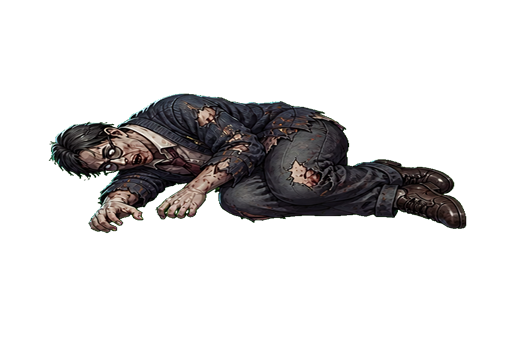
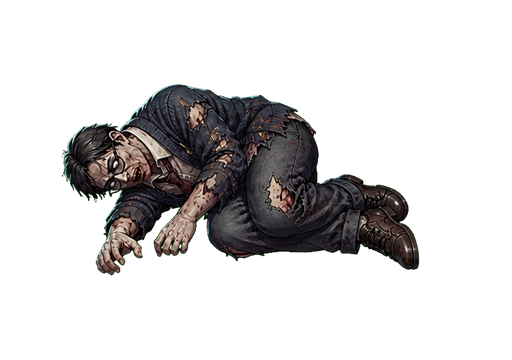
좀비 관련 이미지 파일 추가 및 게임 로직 개선: 다양한 좀비 유형의 이미지와 애니메이션 추가

Changed region(s): [[0.0938, 0.2139, 0.9375, 0.7639]]

diff --git a/school-zombie-defense/js/game.js b/school-zombie-defense/js/game.js
@@ -28,7 +28,13 @@
       return false;
     }
   })();
-  const imageAsset = (path) => SUPPORTS_WEBP ? path.replace(/\.png$/i, ".webp") : path;
+  const PNG_ONLY_ZOMBIE_ASSETS = /assets\/images\/zombie-(?:walk-(?:teacher|nurse|athlete|janitor|guard|crawler|screamer|spider|bloom)|death-(?:teacher|nurse|athlete|janitor|guard|crawler|screamer|spider|bloom)-sheet|corpse-(?:teacher|nurse|athlete|janitor|guard|crawler|screamer|spider|bloom)-[1-3])\.png$/i;
+  const imageAsset = (path) => {
+    const normalizedPath = path.replace(/\\/g, "/");
+    return SUPPORTS_WEBP && !PNG_ONLY_ZOMBIE_ASSETS.test(normalizedPath)
+      ? path.replace(/\.png$/i, ".webp")
+      : path;
+  };
   const choose = (items) => items[Math.floor(Math.random() * items.length)];
   const shuffleItems = (items) => {
     const copy = [...items];
@@ -106,7 +112,23 @@
   ];
   const ZOMBIE_DEATH_ANIMATION_FRAMES = 4;
   const ZOMBIE_DEATH_ANIMATION_FRAME_SIZE = 512;
-  const ZOMBIE_CORPSE_TYPES = ["normal", "student", "runner", "brute", "volatile", "elite"];
+  const ZOMBIE_CORPSE_TYPES = [
+    "normal",
+    "student",
+    "runner",
+    "brute",
+    "volatile",
+    "elite",
+    "teacher",
+    "nurse",
+    "athlete",
+    "janitor",
+    "guard",
+    "crawler",
+    "screamer",
+    "spider",
+    "bloom"
+  ];
   const ZOMBIE_CORPSE_TEXTURES = Object.fromEntries(
     ZOMBIE_CORPSE_TYPES.map((type) => [
       type,
@@ -127,7 +149,16 @@
     runner: { corpseWidth: 0.84, deathSize: 0.96 },
     brute: { corpseWidth: 1.06, deathSize: 1.22 },
     volatile: { corpseWidth: 0.94, deathSize: 0.89 },
-    elite: { corpseWidth: 0.96, deathSize: 1.05 }
+    elite: { corpseWidth: 0.96, deathSize: 1.05 },
+    teacher: { corpseWidth: 0.84, deathSize: 0.96 },
+    nurse: { corpseWidth: 0.78, deathSize: 0.88 },
+    athlete: { corpseWidth: 0.82, deathSize: 0.94 },
+    janitor: { corpseWidth: 1.02, deathSize: 1.12 },
+    guard: { corpseWidth: 1.02, deathSize: 1.1 },
+    crawler: { corpseWidth: 1.18, deathSize: 0.96 },
+    screamer: { corpseWidth: 0.86, deathSize: 0.98 },
+    spider: { corpseWidth: 1.16, deathSize: 0.94 },
+    bloom: { corpseWidth: 0.94, deathSize: 1.04 }
   };
   const ZOMBIE_FOOT_OFFSET_RATIOS = {
     normal: 0.386,
@@ -135,7 +166,16 @@
     runner: 0.392,
     brute: 0.414,
     volatile: 0.392,
-    elite: 0.402
+    elite: 0.402,
+    teacher: 0.394,
+    nurse: 0.39,
+    athlete: 0.384,
+    janitor: 0.41,
+    guard: 0.408,
+    crawler: 0.235,
+    screamer: 0.392,
+    spider: 0.225,
+    bloom: 0.392
   };
   const ZOMBIE_HP_MULTIPLIER = 3;
   const ZOMBIE_SPAWN_INTERVAL_MULTIPLIER = 2.4;
@@ -300,12 +340,12 @@
     "projectile-sniper": 170
   };
   const RIFLE_GRENADE_FLIGHT_TIME_SCALE = 4.6;
-  const RIFLE_GRENADE_INTERVAL_SCALE = 3;
-  const RIFLE_GRENADE_INITIAL_INTERVAL = 8 * RIFLE_GRENADE_INTERVAL_SCALE;
-  const RIFLE_GRENADE_MIN_INTERVAL = 4 * RIFLE_GRENADE_INTERVAL_SCALE;
+  const RIFLE_GRENADE_INTERVAL_SCALE = 1;
+  const RIFLE_GRENADE_INITIAL_INTERVAL = 10 * RIFLE_GRENADE_INTERVAL_SCALE;
+  const RIFLE_GRENADE_MIN_INTERVAL = 2 * RIFLE_GRENADE_INTERVAL_SCALE;
   const getRifleGrenadeEveryForLevel = (level) => {
     const progress = clamp((Math.max(1, level) - 1) / (SHOP_MAX_LEVEL - 1), 0, 1);
-    return Math.round(10 - progress * 6) * RIFLE_GRENADE_INTERVAL_SCALE;
+    return Math.round(10 - progress * 8) * RIFLE_GRENADE_INTERVAL_SCALE;
   };
   const getNextRifleGrenadeEvery = (current) => current === 0
     ? RIFLE_GRENADE_INITIAL_INTERVAL
@@ -319,9 +359,34 @@
     runner: { id: "runner", hpScale: 0.72, speedScale: 1.72, sizeScale: 0.82, attackScale: 0.76, hitRadiusScale: 0.86, knockbackScale: 1.18, animRate: 9.4, reward: 1 },
     brute: { id: "brute", hpScale: 3.7, speedScale: 0.72, sizeScale: 1.24, attackScale: 1.45, hitRadiusScale: 1.22, knockbackScale: 0.42, animRate: 4.9, reward: 2 },
     volatile: { id: "volatile", hpScale: 1.05, speedScale: 1.08, sizeScale: 1.02, attackScale: 1.06, hitRadiusScale: 1, knockbackScale: 0.72, animRate: 7.4, reward: 2, deathExplosion: true },
+    teacher: { id: "teacher", hpScale: 1.28, speedScale: 0.92, sizeScale: 1.03, attackScale: 1.18, hitRadiusScale: 1.04, knockbackScale: 0.82, animRate: 6.2, reward: 2 },
+    nurse: { id: "nurse", hpScale: 0.82, speedScale: 1.32, sizeScale: 0.9, attackScale: 0.88, hitRadiusScale: 0.88, knockbackScale: 1.08, animRate: 8.2, reward: 1 },
+    athlete: { id: "athlete", hpScale: 0.68, speedScale: 1.88, sizeScale: 0.86, attackScale: 0.82, hitRadiusScale: 0.9, knockbackScale: 1.2, animRate: 10.2, reward: 1 },
+    janitor: { id: "janitor", hpScale: 2.25, speedScale: 0.8, sizeScale: 1.14, attackScale: 1.26, hitRadiusScale: 1.14, knockbackScale: 0.55, animRate: 5.4, reward: 2 },
+    guard: { id: "guard", hpScale: 2.85, speedScale: 0.68, sizeScale: 1.12, attackScale: 1.18, hitRadiusScale: 1.12, knockbackScale: 0.48, animRate: 4.8, reward: 3 },
+    crawler: { id: "crawler", hpScale: 0.9, speedScale: 1.38, sizeScale: 0.74, attackScale: 0.72, hitRadiusScale: 0.74, knockbackScale: 0.95, animRate: 8.8, reward: 1 },
+    screamer: { id: "screamer", hpScale: 0.92, speedScale: 1.42, sizeScale: 0.95, attackScale: 0.98, hitRadiusScale: 0.92, knockbackScale: 1.04, animRate: 8.6, reward: 2 },
+    spider: { id: "spider", hpScale: 0.78, speedScale: 1.64, sizeScale: 0.72, attackScale: 0.78, hitRadiusScale: 0.76, knockbackScale: 1.08, animRate: 9.8, reward: 1 },
+    bloom: { id: "bloom", hpScale: 1.48, speedScale: 0.88, sizeScale: 1.02, attackScale: 1.12, hitRadiusScale: 1, knockbackScale: 0.7, animRate: 6.1, reward: 2, deathExplosion: true },
     elite: { id: "elite", hpScale: 1, speedScale: 1, sizeScale: 1, attackScale: 1, hitRadiusScale: 1, knockbackScale: 0.5, animRate: 5.2, reward: 4 }
   };
-  const ZOMBIE_TEXTURE_TYPES = ["normal", "student", "runner", "brute", "volatile", "elite"];
+  const ZOMBIE_TEXTURE_TYPES = [
+    "normal",
+    "student",
+    "runner",
+    "brute",
+    "volatile",
+    "elite",
+    "teacher",
+    "nurse",
+    "athlete",
+    "janitor",
+    "guard",
+    "crawler",
+    "screamer",
+    "spider",
+    "bloom"
+  ];
 
   function createDefaultMetaSave() {
     const save = {
@@ -391,9 +456,28 @@
     }
     if (level >= 4) {
       entries.push({ type: ZOMBIE_TYPE_CONFIGS.brute, weight: Math.min(22, 8 + (level - 4) * 1.2) });
+      entries.push({ type: ZOMBIE_TYPE_CONFIGS.screamer, weight: Math.min(18, 7 + (level - 4) * 0.9) });
+    }
+    if (level >= 3) {
+      entries.push({ type: ZOMBIE_TYPE_CONFIGS.nurse, weight: Math.min(20, 8 + level * 0.9) });
+      entries.push({ type: ZOMBIE_TYPE_CONFIGS.athlete, weight: Math.min(24, 9 + level) });
+    }
+    if (level >= 5) {
+      entries.push({ type: ZOMBIE_TYPE_CONFIGS.teacher, weight: Math.min(20, 7 + (level - 5) * 1) });
+      entries.push({ type: ZOMBIE_TYPE_CONFIGS.janitor, weight: Math.min(18, 6 + (level - 5) * 0.9) });
     }
     if (level >= 6) {
       entries.push({ type: ZOMBIE_TYPE_CONFIGS.volatile, weight: Math.min(18, 6 + (level - 6) * 1.1) });
+      entries.push({ type: ZOMBIE_TYPE_CONFIGS.spider, weight: Math.min(16, 6 + (level - 6) * 0.8) });
+    }
+    if (level >= 7) {
+      entries.push({ type: ZOMBIE_TYPE_CONFIGS.crawler, weight: Math.min(22, 8 + (level - 7) * 1) });
+    }
+    if (level >= 8) {
+      entries.push({ type: ZOMBIE_TYPE_CONFIGS.guard, weight: Math.min(14, 5 + (level - 8) * 0.8) });
+    }
+    if (level >= 9) {
+      entries.push({ type: ZOMBIE_TYPE_CONFIGS.bloom, weight: Math.min(12, 4 + (level - 9) * 0.7) });
     }
     const total = entries.reduce((sum, entry) => sum + entry.weight, 0);
     let roll = Math.random() * total;
@@ -1312,12 +1396,9 @@
           { frameWidth: ZOMBIE_DEATH_ANIMATION_FRAME_SIZE, frameHeight: ZOMBIE_DEATH_ANIMATION_FRAME_SIZE }
         ));
       this.load.image("zombie-walk", imageAsset("assets/images/zombie-walk.png"));
-      this.load.image("zombie-walk-normal", imageAsset("assets/images/zombie-walk-normal.png"));
-      this.load.image("zombie-walk-student", imageAsset("assets/images/zombie-walk-student.png"));
-      this.load.image("zombie-walk-runner", imageAsset("assets/images/zombie-walk-runner.png"));
-      this.load.image("zombie-walk-brute", imageAsset("assets/images/zombie-walk-brute.png"));
-      this.load.image("zombie-walk-volatile", imageAsset("assets/images/zombie-walk-volatile.png"));
-      this.load.image("zombie-walk-elite", imageAsset("assets/images/zombie-walk-elite.png"));
+      ZOMBIE_TEXTURE_TYPES.forEach((type) => {
+        this.load.image(`zombie-walk-${type}`, imageAsset(`assets/images/zombie-walk-${type}.png`));
+      });
       this.load.image("ui-frame-sheet", imageAsset("assets/images/ui-frame-sheet.png"));
       this.load.image("skill-card-sheet", imageAsset("assets/images/skill-card-sheet.png"));
       Object.entries(SFX_ASSETS).forEach(([name, url]) => this.load.audio(`sfx-preload-${name}`, url));
